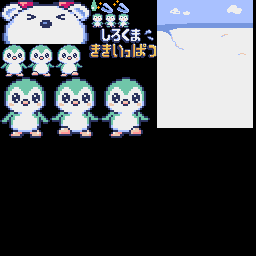
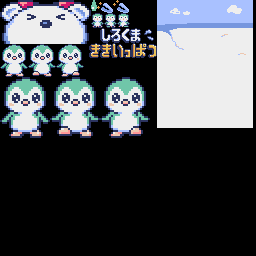
ペンギンMテクスチャの座標修正

diff --git a/image.py b/image.py
@@ -61,8 +61,8 @@ class Image:
         self.assets[ImageAsset.PenguinS_02] = ImageInfo(0, 104, 13, 13, 15)
         self.assets[ImageAsset.PenguinS_03] = ImageInfo(0, 117, 13, 13, 15)
         self.assets[ImageAsset.PenguinM_01] = ImageInfo(0, 0, 44, 28, 33)
-        self.assets[ImageAsset.PenguinM_02] = ImageInfo(0, 27, 44, 28, 33)
-        self.assets[ImageAsset.PenguinM_03] = ImageInfo(0, 55, 44, 28, 33)
+        self.assets[ImageAsset.PenguinM_02] = ImageInfo(0, 28, 44, 28, 33)
+        self.assets[ImageAsset.PenguinM_03] = ImageInfo(0, 56, 44, 28, 33)
         self.assets[ImageAsset.PenguinL_01] = ImageInfo(0, 0, 77, 50, 61)
         self.assets[ImageAsset.PenguinL_02] = ImageInfo(0, 50, 77, 50, 61)
         self.assets[ImageAsset.PenguinL_03] = ImageInfo(0, 100, 77, 50, 61)
